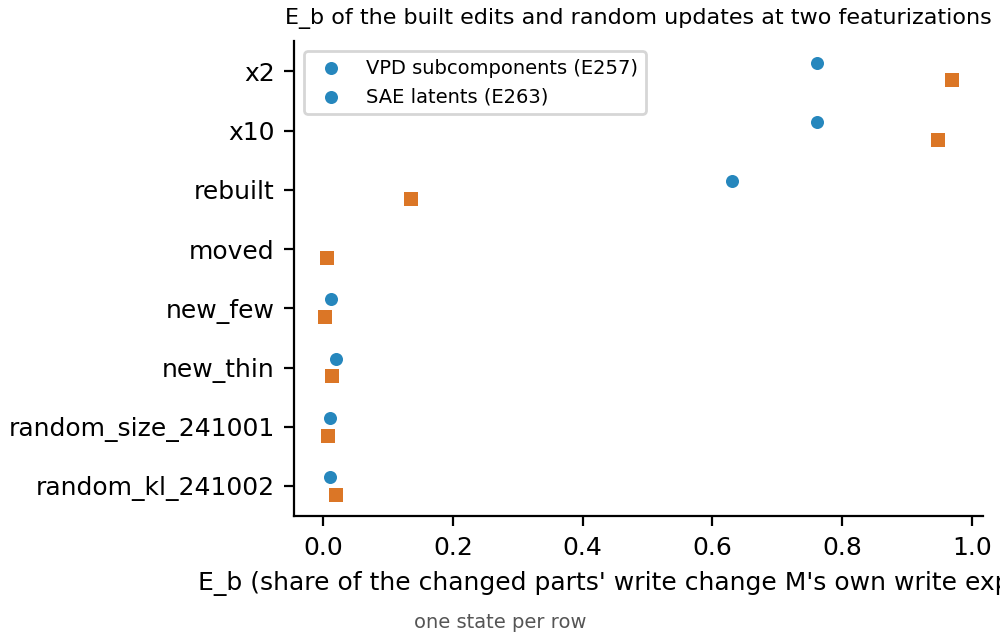
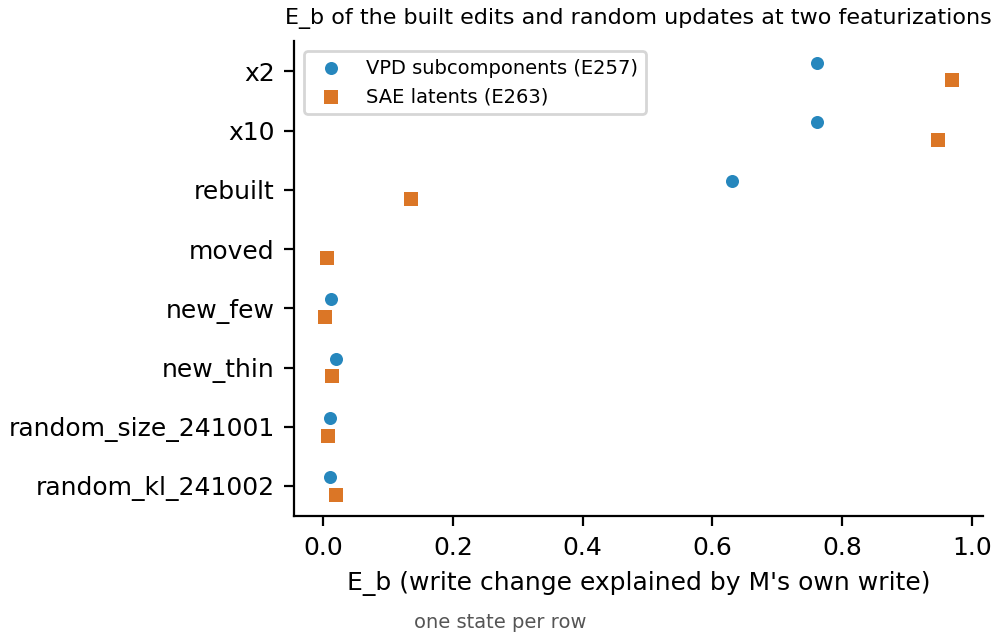
E263: figure legend handles fixed (both entries showed VPD's colour), shorter x label

Changed region(s): [[0.186, 0.875, 1.0, 0.9375], [0.31, 0.125, 0.341, 0.1562]]

diff --git a/experiments/sae_eb/score.py b/experiments/sae_eb/score.py
@@ -84,8 +84,8 @@ def main() -> None:
     fig, ax = FG.figure()
     order = [*REUSE, "moved", *NEW, "random_size_241001", "random_kl_241002"]
     for k, (method, off) in {"vpd": ("regating", -0.15), "sae": ("neuron", 0.15)}.items():
-        FG.dots(ax, {i: [v] if (v := by[i][f"E_b_{k}"]) is not None else [] for i in order}, method=method, xlabel="E_b (share of the changed parts' write change M's own write explains)", offset=off)
-    ax.legend(["VPD subcomponents (E257)", "SAE latents (E263)"], fontsize=7)
+        FG.dots(ax, {i: [v] if (v := by[i][f"E_b_{k}"]) is not None else [] for i in order}, method=method, xlabel="E_b (write change explained by M's own write)", offset=off)
+    ax.legend(handles=[ax.collections[0], ax.collections[len(order)]], labels=["VPD subcomponents (E257)", "SAE latents (E263)"], fontsize=7)
     ax.set_title("E_b of the built edits and random updates at two featurizations", fontsize=8)
     FG.save(fig, HERE / "figures" / "eb_sae_vs_vpd.png", n="one state per row", data=[by[i] for i in order])
 
